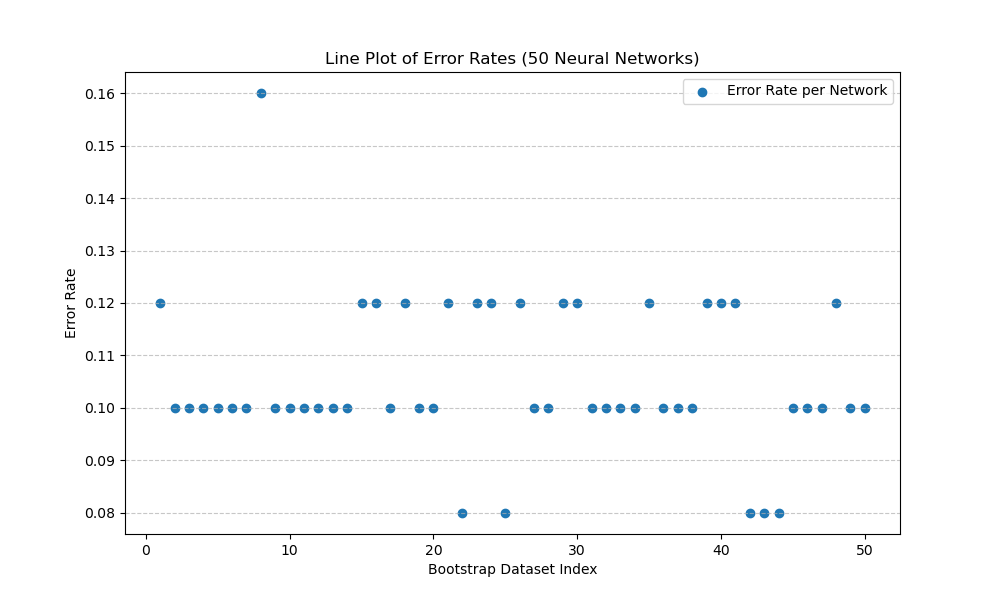
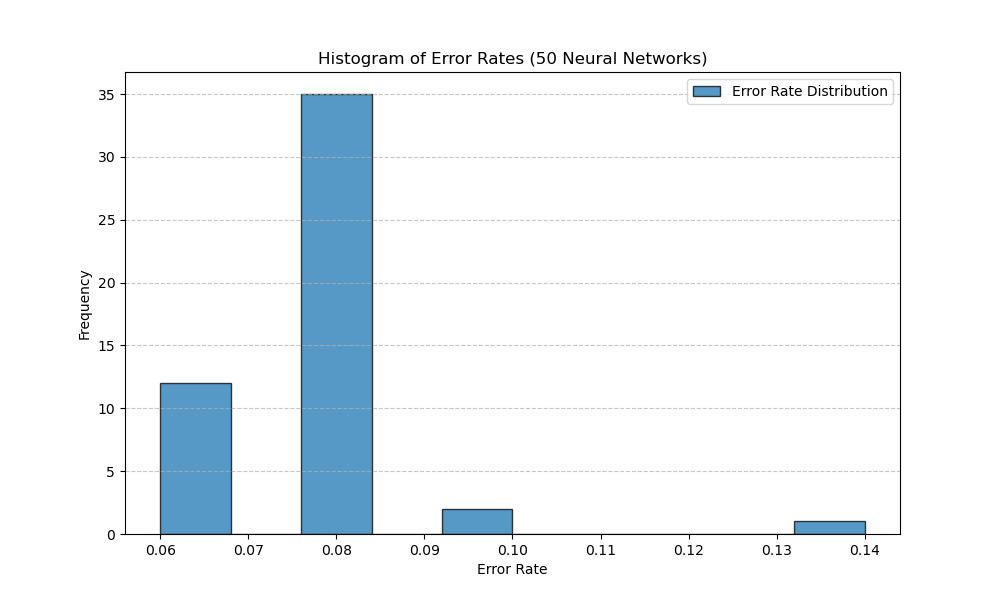
HW9

diff --git a/HW9/HW9.py b/HW9/HW9.py
@@ -13,7 +13,7 @@ print(test_data)
 bootstrapped_datasets = [train_data.sample(n=150, replace=True, random_state=i) for i in range(50)]
 print("\nthe first bootstrap dataset")
 print(bootstrapped_datasets[0])
-classifier = MLPClassifier(hidden_layer_sizes=(10,), random_state=1, max_iter=500)
+classifier = MLPClassifier(hidden_layer_sizes=(10,), random_state=1, max_iter=1000)
 error_rate=[]
 for dataset in bootstrapped_datasets:
     train_x= dataset.iloc[:,:-1]
@@ -22,10 +22,10 @@ for dataset in bootstrapped_datasets:
     pred=classifier.predict(test_data.iloc[:,:-1])
     error_rate.append(1-accuracy_score(pred,test_data.iloc[:,-1]))
 plt.figure(figsize=(10, 6))
-plt.scatter(range(1, 51), error_rate, marker='o', label="Error Rate per Network")
-plt.title("Line Plot of Error Rates (50 Neural Networks)")
-plt.xlabel("Bootstrap Dataset Index")
-plt.ylabel("Error Rate")
+plt.hist(error_rate, bins=10, alpha=0.75, edgecolor='black', label="Error Rate Distribution")
+plt.title("Histogram of Error Rates (50 Neural Networks)")
+plt.xlabel("Error Rate")
+plt.ylabel("Frequency")
 plt.grid(axis='y', linestyle='--', alpha=0.7)
 plt.legend()
 plt.show()
